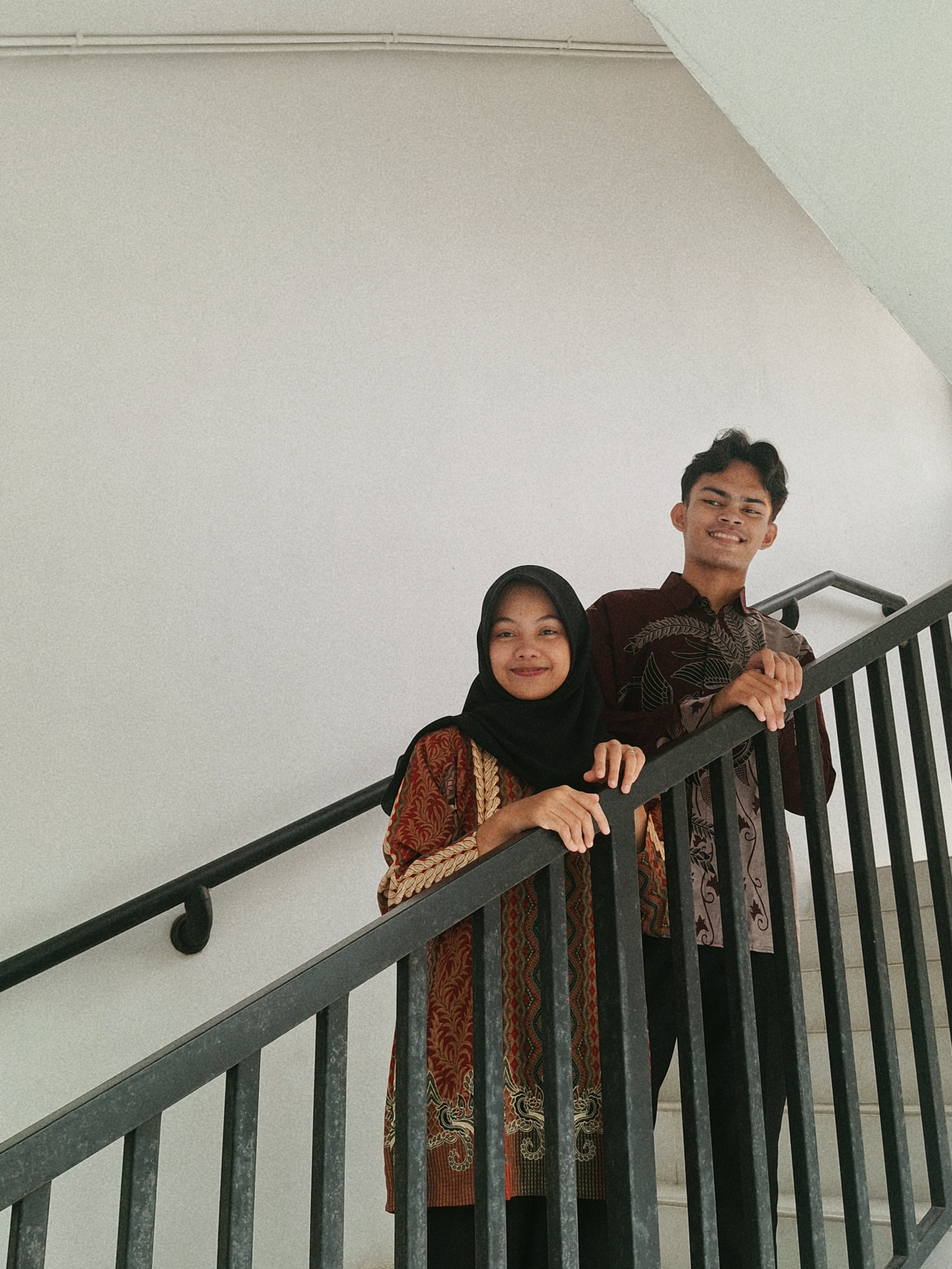
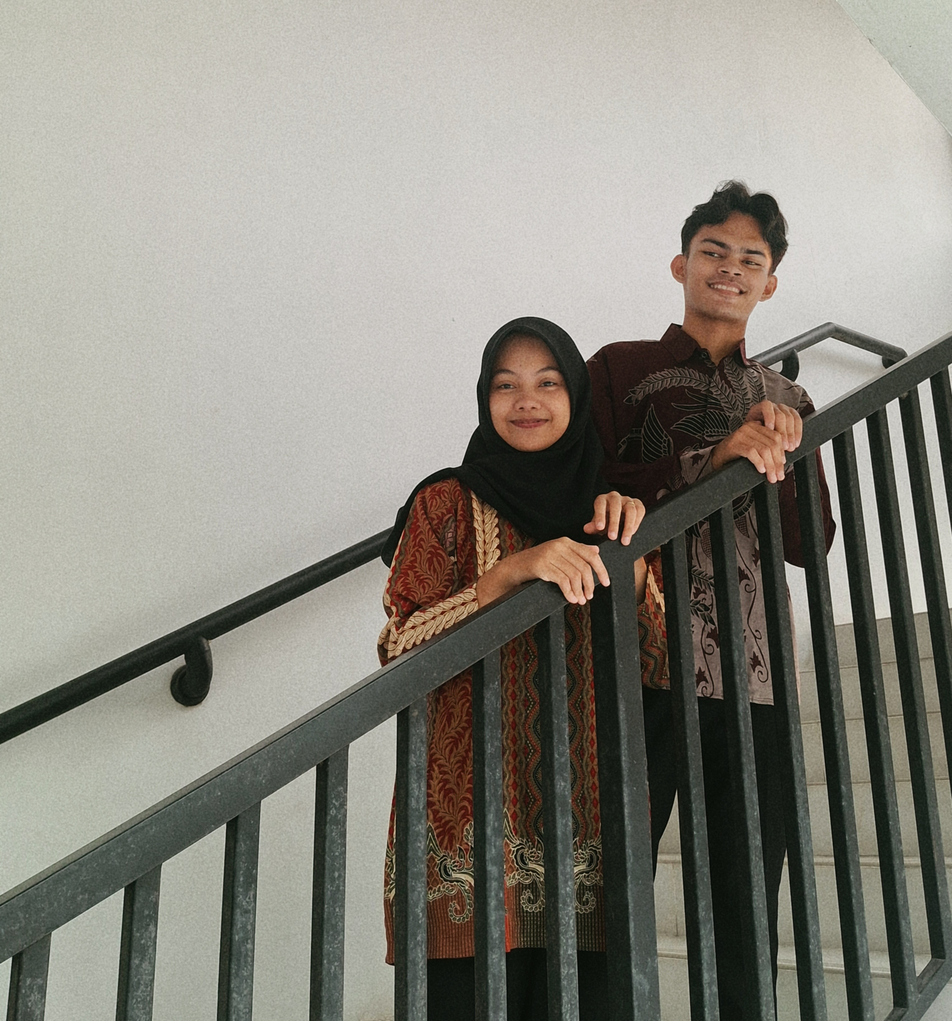
updade: perbaikan gallery

diff --git a/style.css b/style.css
@@ -91,14 +91,14 @@ body:not(.invitation-open) .page:not(#page1) {
 .cover-name {
   color: var(--orange);
   font-family: "Great Vibes", cursive;
-  font-size: clamp(90px, 13vw, 180px);
+  font-size: clamp(80px, 13vw, 140px);
   line-height: 0.999;
   text-align: center;
   transform: rotate(-3deg);
   text-shadow:
     2px 2px 1px #68230f,
     3px 3px 8px rgba(0, 0, 0, 0.7);
-  margin-top: -50px;
+  margin-top: -100px;
 }
 
 .cover-name span {
@@ -107,7 +107,7 @@ body:not(.invitation-open) .page:not(#page1) {
 
 .open-btn {
   position: absolute;
-  bottom: 120px; /* Diturunkan mendekati bagian bawah layar */
+  bottom: 90px; /* Diturunkan mendekati bagian bawah layar */
   left: 50%;
   transform: translateX(-50%); /* Memastikan tombol presisi tepat di tengah */
   z-index: 3; /* Memastikan tombol selalu berada di atas ornamen */
@@ -177,12 +177,12 @@ body:not(.invitation-open) .page:not(#page1) {
 
 .top-name {
   position: absolute;
-  top: 90px;
+  top: 10px;
   z-index: 3;
   text-align: center;
   color: var(--orange);
   font-family: "Great Vibes", cursive;
-  font-size: 90px;
+  font-size: 75px;
   line-height: 0.9;
 }
 
@@ -203,7 +203,7 @@ body:not(.invitation-open) .page:not(#page1) {
 
 .greeting-box {
   width: min(80%, 850px);
-  padding: 50px 80px;
+  padding: 30px 50px;
   color: #eee;
   font-family: "Special Elite", cursive;
   font-size: 20px;
@@ -345,7 +345,7 @@ body:not(.invitation-open) .page:not(#page1) {
 .story-title {
   position: absolute;
   z-index: 3;
-  top: 30px;
+  top: 15px;
   display: flex;
   align-items: center;
   gap: 30px;
@@ -371,12 +371,12 @@ body:not(.invitation-open) .page:not(#page1) {
 .story-container {
   position: relative;
   z-index: 2;
-  width: 80%;
+  width: 85%;
   display: flex;
   justify-content: center;
   align-items: center;
   gap: 20px;
-  margin-top: 60px;
+  margin-top: 150px;
 }
 
 .story-card {
@@ -426,7 +426,7 @@ body:not(.invitation-open) .page:not(#page1) {
   padding-top: 25px;
   text-align: center;
   font-family: "Special Elite", cursive;
-  font-size: 23px;
+  font-size: 20px;
   line-height: 1.4;
 }
 
@@ -496,6 +496,10 @@ body:not(.invitation-open) .page:not(#page1) {
   justify-content: center;
   align-items: center;
   padding: 0 !important;
+}
+
+.photo-container{
+  left: 5000px;
 }
 
 /* Foto Tengah */
@@ -687,7 +691,7 @@ body:not(.invitation-open) .page:not(#page1) {
 .couple-name {
   position: absolute;
   top: 60px;
-  left: 45%;
+  left: 40%;
   transform: translateX(-50%);
   width: 90%;
   text-align: center;
@@ -796,8 +800,8 @@ body:not(.invitation-open) .page:not(#page1) {
 
 .map-image {
   position: relative;
-  width: 80%;
-  height: 890px;
+  width: 70%;
+  height: 490px;
   margin-top: 5px;
   overflow: hidden;
 }
@@ -850,8 +854,8 @@ body:not(.invitation-open) .page:not(#page1) {
   grid-column: 1 / 7;
   grid-row: 1 / 2;
   position: absolute;
-  width: 400px;
-  height: 470px;
+  width: 250px;
+  height: 350px;
   z-index: 1;
 }
 
@@ -859,10 +863,10 @@ body:not(.invitation-open) .page:not(#page1) {
   grid-column: 4 / 7;
   grid-row: 1 / 4;
   position: absolute;
-  width: 380px;
-  height: 550px;
-  left: 0;
-  right: 90px;
+  width: 350px;
+  height: 430px;
+  left: -70px;
+  right: 0px;
   top: 0px;
   bottom: 0px;
   z-index: 1;
@@ -872,9 +876,10 @@ body:not(.invitation-open) .page:not(#page1) {
   grid-column: 7 / 10;
   grid-row: 1 / 4;
   position: absolute;
-  width: 450px;
+  width: 350px;
+  left: -110px;
   right: 0px;
-  height: 400px;
+  height: 300px;
   z-index: 1;
 }
 
@@ -884,7 +889,7 @@ body:not(.invitation-open) .page:not(#page1) {
   position: absolute;
   right: 0px;
   width: 400px;
-  height: 550px;
+  height: 350px;
   z-index: 1;
 }
 
@@ -892,10 +897,11 @@ body:not(.invitation-open) .page:not(#page1) {
   grid-column: 1 / 4;
   grid-row: 5 / 9;
   position: absolute;
+  top: 40px;
   right: 0px;
   left: 0px;
-  width: 430px;
-  height: 500px;
+  width: 360px;
+  height: 250px;
   z-index: 1;
 }
 
@@ -904,9 +910,9 @@ body:not(.invitation-open) .page:not(#page1) {
   grid-row: 4 / 9;
   position: absolute;
   right: 0px;
-  left: 50px;
-  width: 480px;
-  height: 480px;
+  left: 45px;
+  width: 400px;
+  height: 220px;
   bottom: 0px;
 
   z-index: 1;
@@ -914,12 +920,12 @@ body:not(.invitation-open) .page:not(#page1) {
 
 .foto7 {
   grid-column: 7 / 10;
-  grid-row: 4 / 9;
+  grid-row: 5 / 9;
   position: absolute;
   right: 0px;
-  left: 0px;
-  width: 850px;
-  height: 550px;
+  left: -35px;
+  width: 700px;
+  height:350px;
   bottom: 0px;
 
   z-index: 0;
@@ -930,9 +936,9 @@ body:not(.invitation-open) .page:not(#page1) {
   grid-row: 5 / 9;
   position: absolute;
   right: 0px;
-  left: 150px;
-  width: 230px;
-  height: 385px;
+  left: 110px;
+  width: 205px;
+  height: 90x;
   bottom: 0px;
   z-index: 1;
 }
@@ -941,9 +947,9 @@ body:not(.invitation-open) .page:not(#page1) {
   position: absolute;
   top: 0;
   left: 0;
-  right: 0;
-  width: 105%;
-  height: 68%;
+  right: 5;
+  width: 95%;
+  height: 78%;
   display: flex;
   flex-direction: column;
   align-items: center;
@@ -954,7 +960,7 @@ body:not(.invitation-open) .page:not(#page1) {
 .gallery-name {
   color: #d94e32;
   font-family: "Great Vibes", cursive;
-  font-size: 65px;
+  font-size: 60px;
   line-height: 0.9;
   text-align: center;
   text-shadow: 1px 1px 2px rgba(255, 255, 255, 0.7);
@@ -962,12 +968,12 @@ body:not(.invitation-open) .page:not(#page1) {
 }
 
 .gallery-subtitle {
-  margin-top: 20px;
+  margin-top: 10px;
+  margin-left:30px;
   padding: 7px 20px;
-  background: rgba(100, 100, 100, 0.5);
   color: white;
   font-family: "Special Elite", cursive;
-  font-size: 14px;
+  font-size: 10px;
   letter-spacing: 5px;
   z-index: 1;
 }

diff --git a/index.html b/index.html
@@ -42,9 +42,8 @@
         </div>
         
         <div class="guest-section" style="position: relative; z-index: 3; text-align: center; color: white; margin-top: -20px; font-family: 'Special Elite', cursive;">
-            <p style="font-size: 16px; margin-bottom: 5px; color: #eee9dd;">Kepada Yth. Bapak,</p>
+            <p style="font-size: 16px; margin-bottom: 5px; color: #eee9dd;">Kepada Yth. Bapak/Ibu/Saudara/i</p>
             <h3 style="font-size: 26px; color: #c94e2c; text-shadow: 2px 2px 5px rgba(0,0,0,0.8);">
-                <?php echo $nama_tamu_tampil; ?>
             </h3>
         </div>
         
@@ -327,7 +326,7 @@
         </div>
 
         <div class="gallery-item foto6">
-            <img src="assets/1.jpeg" alt="Foto 6">
+            <img src="assets/01.jpeg" alt="Foto 6">
         </div>
 
         <div class="gallery-item foto7">
@@ -335,7 +334,7 @@
         </div>
 
         <div class="gallery-item foto8">
-            <img src="assets/2.jpeg" alt="Foto 8">
+            <img src="assets/gallery4.jpeg" alt="Foto 8">
         </div>
 
         <div class="gallery-center">
@@ -345,7 +344,7 @@
             </div>
 
             <div class="gallery-subtitle">
-                WEDDING GALLERY
+                <b>WEDDING GALLERY</b>
             </div>
         </div>
     </div>
@@ -404,7 +403,7 @@
 
       <!-- FOOTER QR CODE & CASHLESS TEXT -->
       <div class="wish-cashless-footer">
-        <img src="assets/QR code.jpg" alt="QR Code" class="qr-img">
+        <img src="assets/QR code.jpeg" alt="QR Code" class="qr-img">
         <p class="gift-text">
           JIKA MEMBERI MERUPAKAN UNGKAPAN TANDA KASIH, BAPAK/IBU/SAUDARA/I DAPAT MEMBERI HADIAH SECARA CASHLESS. TERIMA KASIH.
         </p>
